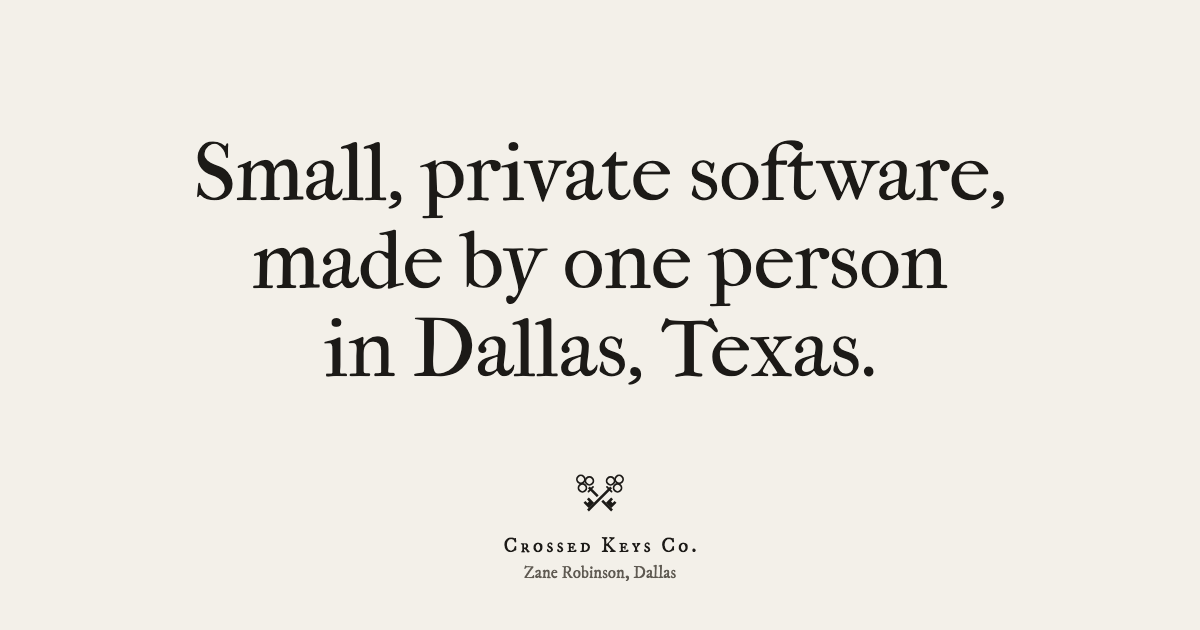
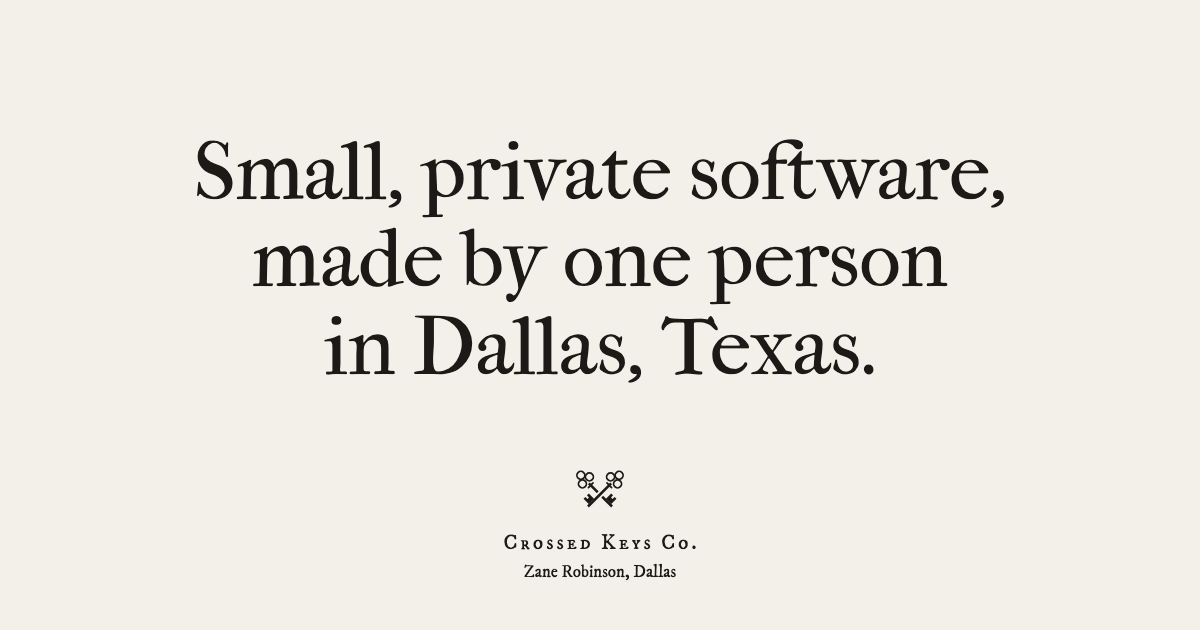
fix: set the maker's line in full ink at a smaller size

diff --git a/site/styles.css b/site/styles.css
@@ -157,10 +157,16 @@ a:focus-visible {
   line-height: 1.3;
 }
 
+/* The maker's line: full ink, the smallest type on the page. */
 .place {
+  font-size: 0.8125rem;
+  line-height: 1.6;
+  margin-top: 0.1rem;
+}
+.missing .place {
   font-size: var(--size-small);
   color: var(--quiet);
-  line-height: 1.5;
+  margin-top: 0;
 }
 
 /* Verso: the small print. */
